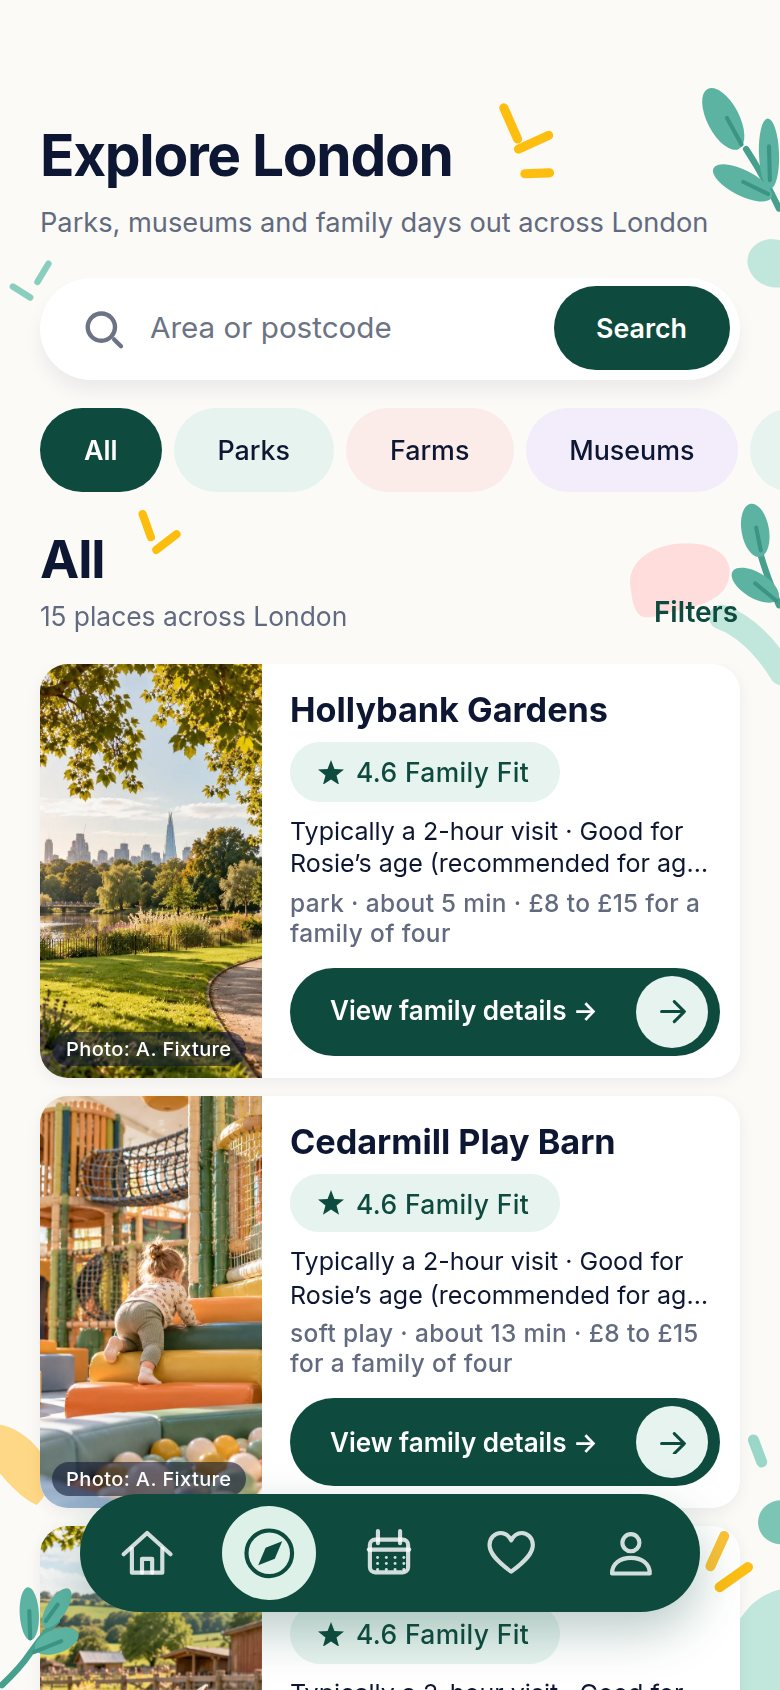
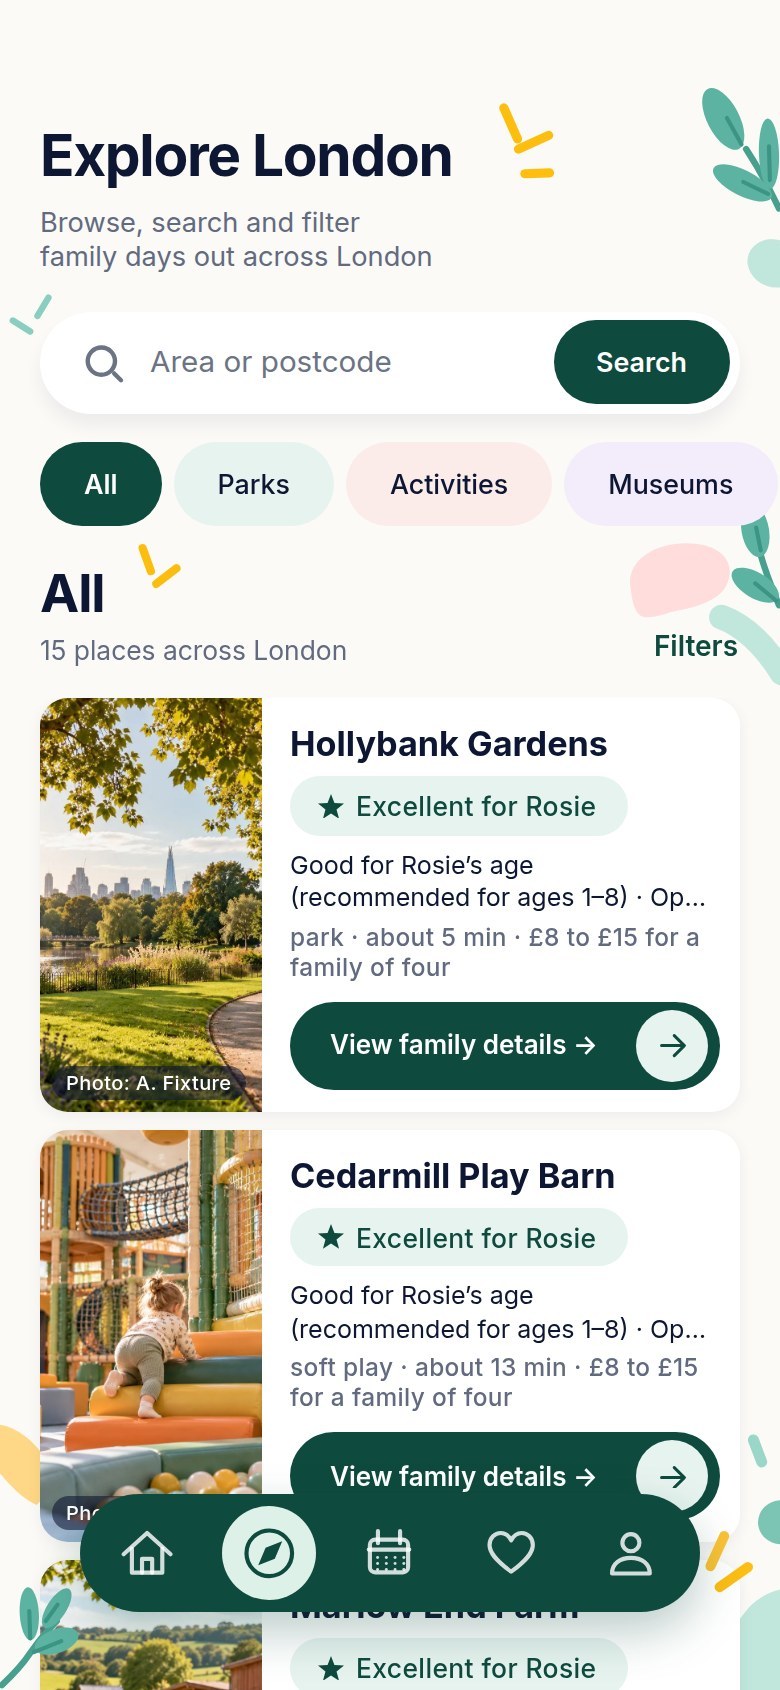
Housekeeping: correct stale photography docs, regenerate Explore evidence, fix NO PHOTO label article (#161)
* Housekeeping: correct stale photography docs, regenerate Explore evidence from current main

- docs/WELCOME_PHOTOGRAPHY.md, docs/PHOTOGRAPHY_ASSETS.md and one line of docs/FIGMA_APPROVED_FRAMES.md still said the seven
  Welcome images were not in the repository and asked for files that are installed. They now state that all seven Welcome images
  and the required fixture images are installed, keep the contracts and specs, and describe how to replace an image.
- Regenerated the realistic Explore evidence (the four app renders, the A/B/C/D board and the card strip) from a clean build of
  main at 92d727b, so the committed screenshots show the current Family Fit chips and the CategoryArt illustration for the
  NO PHOTO venues rather than the earlier gradient fallback.
- compare-canonical-screens.mjs: CAPTURE_NOW overrides its fixed clock (default unchanged), so the cards can be rendered on a
  morning when the fixture venues are open.

No production code changed. No aquarium fixture added.

Claude-Session: https://claude.ai/code/session_01B1rrDUPknqyRoBSdiYqTN3

* Fix the article in the no-photo illustration's accessible label

The label read "Illustration of a attraction" and "a activity venue" because VenueImage hard-coded "a". It now picks "a" or "an"
from the noun: a park, a zoo, a museum, an attraction, an activity venue, a soft play centre. category-art.test.ts, which pinned
[…]

diff --git a/familypilot/src/__tests__/category-art.test.ts b/familypilot/src/__tests__/category-art.test.ts
@@ -3,6 +3,7 @@ import { join } from 'node:path';
 import { describe, expect, it } from 'vitest';
 
 import { colors } from '@/src/design-system/tokens';
+import { withIndefiniteArticle } from '@/src/utils/indefinite-article';
 
 const ROOT = join(__dirname, '..', '..');
 const read = (p: string) => readFileSync(join(ROOT, p), 'utf8');
@@ -30,8 +31,38 @@ describe('the category illustration fallback', () => {
   it('is the only thing VenueImage draws when there is no photograph, and says it is an illustration', () => {
     const venueImage = read('src/components/ui/VenueImage.tsx');
     expect(venueImage).toMatch(/<CategoryArt category=\{category\}/);
-    expect(venueImage).toMatch(/photo not available\. Illustration of a/);
+    expect(venueImage).toMatch(/photo not available\. Illustration of \$\{withIndefiniteArticle\(categoryNoun\(category\)\)\}/);
     // No credit chip over an illustration: nobody took a photograph.
     expect(venueImage).toMatch(/showCredit&&!failed\?photoCredit\(uri\):null/);
   });
 });
+
+/**
+ * The accessible label of the no-photo illustration reads "Illustration of <a|an> <noun>". It used to hard-code "a", which a
+ * screen reader read aloud as "Illustration of a attraction" and "a activity".
+ */
+describe('the no-photo illustration label uses the right article', () => {
+  const venueImage = read('src/components/ui/VenueImage.tsx');
+  // The category words the label can say, read from the component's own table so a new category is covered automatically.
+  const table = venueImage.slice(venueImage.indexOf('const CATEGORY_NOUN'), venueImage.indexOf('};', venueImage.indexOf('const CATEGORY_NOUN')));
+  const nouns = [...table.matchAll(/:\s*'([^']+)'/g)].map((m) => m[1]);
+
+  it('reads every category noun with a or an as English does', () => {
+    expect(nouns.length).toBeGreaterThanOrEqual(10);
+    const said = nouns.map((noun) => withIndefiniteArticle(noun));
+    expect(said).toEqual(expect.arrayContaining(['an attraction', 'an activity venue', 'a park', 'a farm', 'a zoo', 'a museum', 'a soft play centre', 'a beach', 'a cafe', 'a restaurant']));
+    for (const phrase of said) expect(phrase).not.toMatch(/^a [aeiou]/i);
+  });
+
+  it('keeps "a" before a consonant and uses "an" before a vowel, including the generic fallback', () => {
+    expect(withIndefiniteArticle('place')).toBe('a place');
+    expect(withIndefiniteArticle('attraction')).toBe('an attraction');
+    expect(withIndefiniteArticle('activity venue')).toBe('an activity venue');
+    expect(withIndefiniteArticle('Event')).toBe('an Event');
+  });
+
+  it('never hard-codes "a" in the label again', () => {
+    expect(venueImage).not.toMatch(/Illustration of a \$\{/);
+  });
+});
+

diff --git a/familypilot/src/components/ui/VenueImage.tsx b/familypilot/src/components/ui/VenueImage.tsx
@@ -3,6 +3,7 @@ import { useEffect, useState } from 'react';
 import { StyleProp, StyleSheet, View, ViewStyle } from 'react-native';
 import { colors, radius } from '@/src/design-system/tokens';
 import { photoCredit } from '@/src/services/places/place-photo-url';
+import { withIndefiniteArticle } from '@/src/utils/indefinite-article';
 import { CategoryArt } from './CategoryArt';
 import { Skeleton } from './Skeleton';
 import { Text } from './Text';
@@ -75,7 +76,7 @@ export function VenueImage({uri,category,alt,style,borderRadius=radius.md,showCr
  const credit=showCredit&&!failed?photoCredit(uri):null;
  return <View pointerEvents={pointerEvents} style={[styles.wrap,{borderRadius},style]}>
   {!uri||failed?
-   <View style={styles.empty} accessible accessibilityRole="image" accessibilityLabel={`${alt ? `${alt}, ` : 'Place '}photo not available. Illustration of a ${categoryNoun(category)}`}>
+   <View style={styles.empty} accessible accessibilityRole="image" accessibilityLabel={`${alt ? `${alt}, ` : 'Place '}photo not available. Illustration of ${withIndefiniteArticle(categoryNoun(category))}`}>
     <CategoryArt category={category} />
    </View>
   :<>

diff --git a/familypilot/src/utils/indefinite-article.ts b/familypilot/src/utils/indefinite-article.ts
@@ -1,0 +1,9 @@
+/**
+ * "a" or "an" for a noun phrase, by its first letter: a park, a zoo, an attraction, an activity venue.
+ *
+ * Deliberately simple: the nouns it is used with are FamilyPilot's own category words, none of which starts with a silent
+ * "h" or a "u" sounded as "you". Do not reuse it for arbitrary English without handling those.
+ */
+export function withIndefiniteArticle(noun: string): string {
+  return `${/^[aeiou]/i.test(noun.trim()) ? 'an' : 'a'} ${noun}`;
+}

diff --git a/docs/WELCOME_PHOTOGRAPHY.md b/docs/WELCOME_PHOTOGRAPHY.md
@@ -1,26 +1,28 @@
-# Welcome photography: the one outstanding asset dependency
+# Welcome photography: the contract and the installed images
 
-This is the complete handoff for the only visual dependency left on the approved Welcome frame (Figma
-`166:128`). Everything else on Welcome, Home and Explore is implemented.
+The approved Welcome frame (Figma `166:128`) is a collage of **seven photographic cut-outs**. The cut-out shapes,
+their positions, the white sticker edge and the decorative stickers over them are implemented exactly
+(`WELCOME_CUTOUTS`, `PhotoSlot`, `WELCOME_ART`).
 
-The Welcome frame is a collage of **seven photographic cut-outs**. The cut-out shapes, their positions, the
-white sticker edge and the decorative stickers over them are implemented exactly (`WELCOME_CUTOUTS`,
-`PhotoSlot`, `WELCOME_ART`), and the pipeline that draws a file inside each slot is wired and tested. **The
-seven images themselves are not in the repository yet.**
+**Status: all seven images are installed** in `familypilot/assets/images/welcome/` (`zoo`, `farm`, `cafe`, `crafts`,
+`soft-play`, `puddles`, `aquarium`), each within the 150 KB budget, imported in `src/assets/welcome-photos.ts` and
+recorded in `assets/images/welcome/CREDITS.md` as `Origin: generated`. They are bundled brand imagery: no runtime
+request, no provider call, no cost. This document remains the contract (crop, focal point, safe area, size, format)
+that any replacement or additional image must meet.
 
 * The photographs inside the Figma frame are *review-only crops of the owner's reference screenshot*. They are
   not licensed assets and must never ship. No app code or bundle references them.
 * Welcome is **brand / lifestyle imagery**, not evidence about a venue, so a licensed photograph **or a generated
   photograph** is appropriate here. (Home and Explore are the opposite: they show real venues and never use
   generated imagery as a venue's photograph. See `docs/PHOTOGRAPHY_ASSETS.md`.)
-* This environment cannot reach any photo host and has no image-generation capability, so the images are made
-  externally and supplied. The exact generation briefs are in `docs/PHOTOGRAPHY_ASSETS.md`.
+* The images were generated externally (this environment cannot reach a photo host or generate images) and
+  processed with `scripts/prepare-welcome-photos.mjs`. The generation briefs are in `docs/PHOTOGRAPHY_ASSETS.md`.
 
-Until the files below exist, each slot draws its category gradient inside its exact cut-out. That is a
-**temporary fallback**, never the finished screen. Nothing about the masks, the white edge, the stickers or the
-composition changes when the images arrive: each file is simply drawn inside its existing slot.
+A slot with no file would fall back to its category gradient inside its exact cut-out. That is only a defensive
+fallback, never the finished screen: `welcome-photos.test.ts` fails the build if any of the seven slots has no
+image, so production never ships a gradient in place of a photograph.
 
-## What is needed
+## What each image must be
 
 Seven images that read as **one photographic campaign**: premium but natural UK family-lifestyle photography, warm
 natural daylight, candid rather than posed, realistic skin, fur and material detail, playful without looking like
@@ -80,21 +82,22 @@ pixel size** (a little larger is fine; do not supply smaller). Dimensions are wi
   `aquarium.jpg` (lower case, hyphen in `soft-play`).
 * **Destination path:** `familypilot/assets/images/welcome/<filename>`.
 
-## How to ship them
+## Replacing or adding an image
 
-1. Put each file at `familypilot/assets/images/welcome/<slot>.jpg`.
-2. Add one line per file to `assets/images/welcome/CREDITS.md` (photographer, source, licence, model release if a
-   child is shown).
-3. Add the matching static `require` in `src/assets/welcome-photos.ts` (React Native needs each one written out).
-4. `npx vitest run src/__tests__/welcome-photos.test.ts` checks the file, the credit line, the size budget, and that
-   nothing is credited but unwired or wired but uncredited. The `todo` in that test names the slots still missing;
-   it passes once all seven ship.
-5. Rebuild, and review Welcome at 360, 393 and 430 (`scripts/compare-canonical-screens.mjs`): the real
-   photographs replace the gradients inside the same cut-outs, so nothing else on the screen should move.
+1. Prepare the file: `node scripts/prepare-welcome-photos.mjs <slot>=<source>` crops it to the slot's aspect around
+   the focal point, scales it, strips metadata and writes `familypilot/assets/images/welcome/<slot>.jpg` within the
+   size budget.
+2. Update that slot's line in `assets/images/welcome/CREDITS.md` (`Origin` is `photograph` or `generated`, the
+   creator or tool, the terms; a licence and a model release for any photograph that shows an identifiable child).
+3. `src/assets/welcome-photos.ts` already imports the slot; a new slot needs a static `import` there (Metro needs
+   each one written out).
+4. `npx vitest run src/__tests__/welcome-photos.test.ts` checks the file, the credit line, that the origin is stated,
+   the size budget, that nothing is credited but unwired or wired but uncredited, and that every slot has an image.
+5. Rebuild and review Welcome at 360, 393 and 430 (`scripts/compare-canonical-screens.mjs`); nothing else on the
+   screen should move.
 
-The photographs are brand artwork, bundled with the app: **no runtime request, no provider call, no cost**. They
-are drawn behind a decorative (`aria-hidden`) layer, so assistive technology skips them; the benefit cards,
-headline and button carry all the meaning.
+The photographs are drawn behind a decorative (`aria-hidden`) layer, so assistive technology skips them; the
+benefit cards, headline and button carry all the meaning.
 
 ## Alternative: one composed collage image
 

diff --git a/docs/PHOTOGRAPHY_ASSETS.md b/docs/PHOTOGRAPHY_ASSETS.md
@@ -7,7 +7,7 @@ FamilyPilot has **two different photography contracts**. They must not be confus
 | What the images are | Brand / lifestyle imagery | Photographs of **real venues** |
 | Generated imagery | **Appropriate** (or licensed photography) | **Never** presented as a venue's photograph |
 | Where it lives | `familypilot/assets/images/welcome/` (bundled) | The provider photo pipeline (proxy, cache, attribution) |
-| When there is none | Category gradient inside the cut-out (temporary fallback) | FamilyPilot category fallback, no credit |
+| When there is none | Category gradient inside the cut-out (defensive only: all seven slots are installed and a test fails if one is missing) | FamilyPilot category illustration (`CategoryArt`), no credit |
 | Test / demo stand-ins | None | **Synthetic fixture photography**, isolated, test server only |
 
 ## The production contract for real venues
@@ -32,10 +32,11 @@ deterministic fixture/demo/testing imagery, and clearly illustrative non-evident
   judged by eye. They are never shown for a real venue in production. The deliberate "no photo" fixture venues are
   not served an image at all.
 
-## What I need from you (the environment cannot generate images)
+## Specifications for replacing or adding an image
 
-Place the files exactly here. Nothing else is needed; I write the credit and manifest lines from the generator and
-prompt you tell me you used.
+**Nothing is outstanding.** Every Welcome slot and every required fixture image is installed. This section is the spec
+to use if an image is ever replaced or added (the environment cannot generate images, so they are made externally and
+processed with the `scripts/prepare-*.mjs` scripts). Each file goes exactly here, with its credit or manifest line.
 
 ### A. Welcome: 7 files, `familypilot/assets/images/welcome/`
 
@@ -55,16 +56,16 @@ aspect and downscaling is fine. Crop, focal point, off-screen bleed and safe are
 
 ### B. Fixtures: `familypilot/assets/images/fixtures/venues/`
 
-| File | Needed? | Used by |
+| File | Status | Used by |
 | --- | --- | --- |
-| `museum.jpg` | required | Home hero, Explore |
-| `park.jpg` | required | Home hero, Explore |
-| `soft_play.jpg` | required | Explore, Home |
-| `farm.jpg` | required | Explore, Home |
-| `attraction.jpg` | required | Explore, Home |
-| `zoo.jpg` | strongly preferred | one fixture venue (flat colour scene until it exists) |
-| `activity.jpg` | strongly preferred | two fixture venues (flat colour scene until it exists) |
-| `aquarium.jpg` | optional | not used by the current fifteen |
+| `museum.jpg` | installed | Home hero, Explore |
+| `park.jpg` | installed | Home hero, Explore |
+| `soft_play.jpg` | installed | Explore, Home |
+| `farm.jpg` | installed | Explore, Home |
+| `attraction.jpg` | installed | Explore, Home |
+| `zoo.jpg` | installed | one fixture venue |
+| `activity.jpg` | installed | two fixture venues |
+| `aquarium.jpg` | optional, not installed | not used by the current fifteen venues; not needed |
 | `<category>-b.jpg`, `<category>-c.jpg` | optional | variety between venues of one category |
 
 Landscape 4:3, **1600 x 1200 px**, JPEG sRGB, **at most 400 KB each**.
@@ -144,12 +145,13 @@ Prepend this instead of the lifestyle block:
 8. **`aquarium`** (optional). A large, softly lit aquarium tunnel with a school of fish and a turtle overhead,
    a child silhouetted looking up; blue light; no signage.
 
-## What happens when the files arrive
+## When an image is replaced or added
 
-1. Welcome: copy the seven files, add `Origin: generated` credit lines to `assets/images/welcome/CREDITS.md`, add the
-   seven `require` lines to `src/assets/welcome-photos.ts`; the todo in `welcome-photos.test.ts` then passes.
-2. Fixtures: copy the files, add a `synthetic: true` entry for each to
-   `assets/images/fixtures/venues/manifest.json`; the fixture server (realistic scenario) serves them per category.
+1. Welcome: prepare the file with `scripts/prepare-welcome-photos.mjs`, update its `Origin: generated` (or
+   `photograph`) line in `assets/images/welcome/CREDITS.md`, and import it in `src/assets/welcome-photos.ts`;
+   `welcome-photos.test.ts` checks it.
+2. Fixtures: prepare the file with `scripts/prepare-fixture-photos.mjs`, which records a `synthetic: true` entry in
+   `assets/images/fixtures/venues/manifest.json`; the fixture server (realistic scenario) serves it per category.
 3. Rebuild, regenerate the realistic Home, Explore (full, partial, unreviewed, long name, no photo) and Welcome
    renders at 360/393/430, the canonical A/B/C/D boards, and run the full regression with the zero-spend tripwires.
    The "no photo" fixtures keep the category fallback on purpose.

diff --git a/docs/FIGMA_APPROVED_FRAMES.md b/docs/FIGMA_APPROVED_FRAMES.md
@@ -85,8 +85,8 @@ Differences between the real app and the frames, classified:
 4. **Accessibility-driven, small** — the placeholder, footnote and link grey (`text.tertiary`) is `#6B7384`, not the
    frame's lighter grey, to reach 4.5:1; a keyboard focus ring on the search field; the Explore category rail and the
    Plan tabs expose their selected state to assistive technology.
-5. **Outstanding asset** — Welcome's seven photographs (see `docs/WELCOME_PHOTOGRAPHY.md`). Slots draw the category
-   gradient inside the exact cut-outs until licensed photographs ship.
+5. **Welcome photography** — installed: all seven images (generated brand imagery, credited in
+   `assets/images/welcome/CREDITS.md`) are drawn inside the exact cut-outs (see `docs/WELCOME_PHOTOGRAPHY.md`).
 6. **Genuine fidelity defects** — none open at 393.
 
 Decisions that used to be deviations and are now the frames' own: the nav is two variants (290 on Home, 310 on
